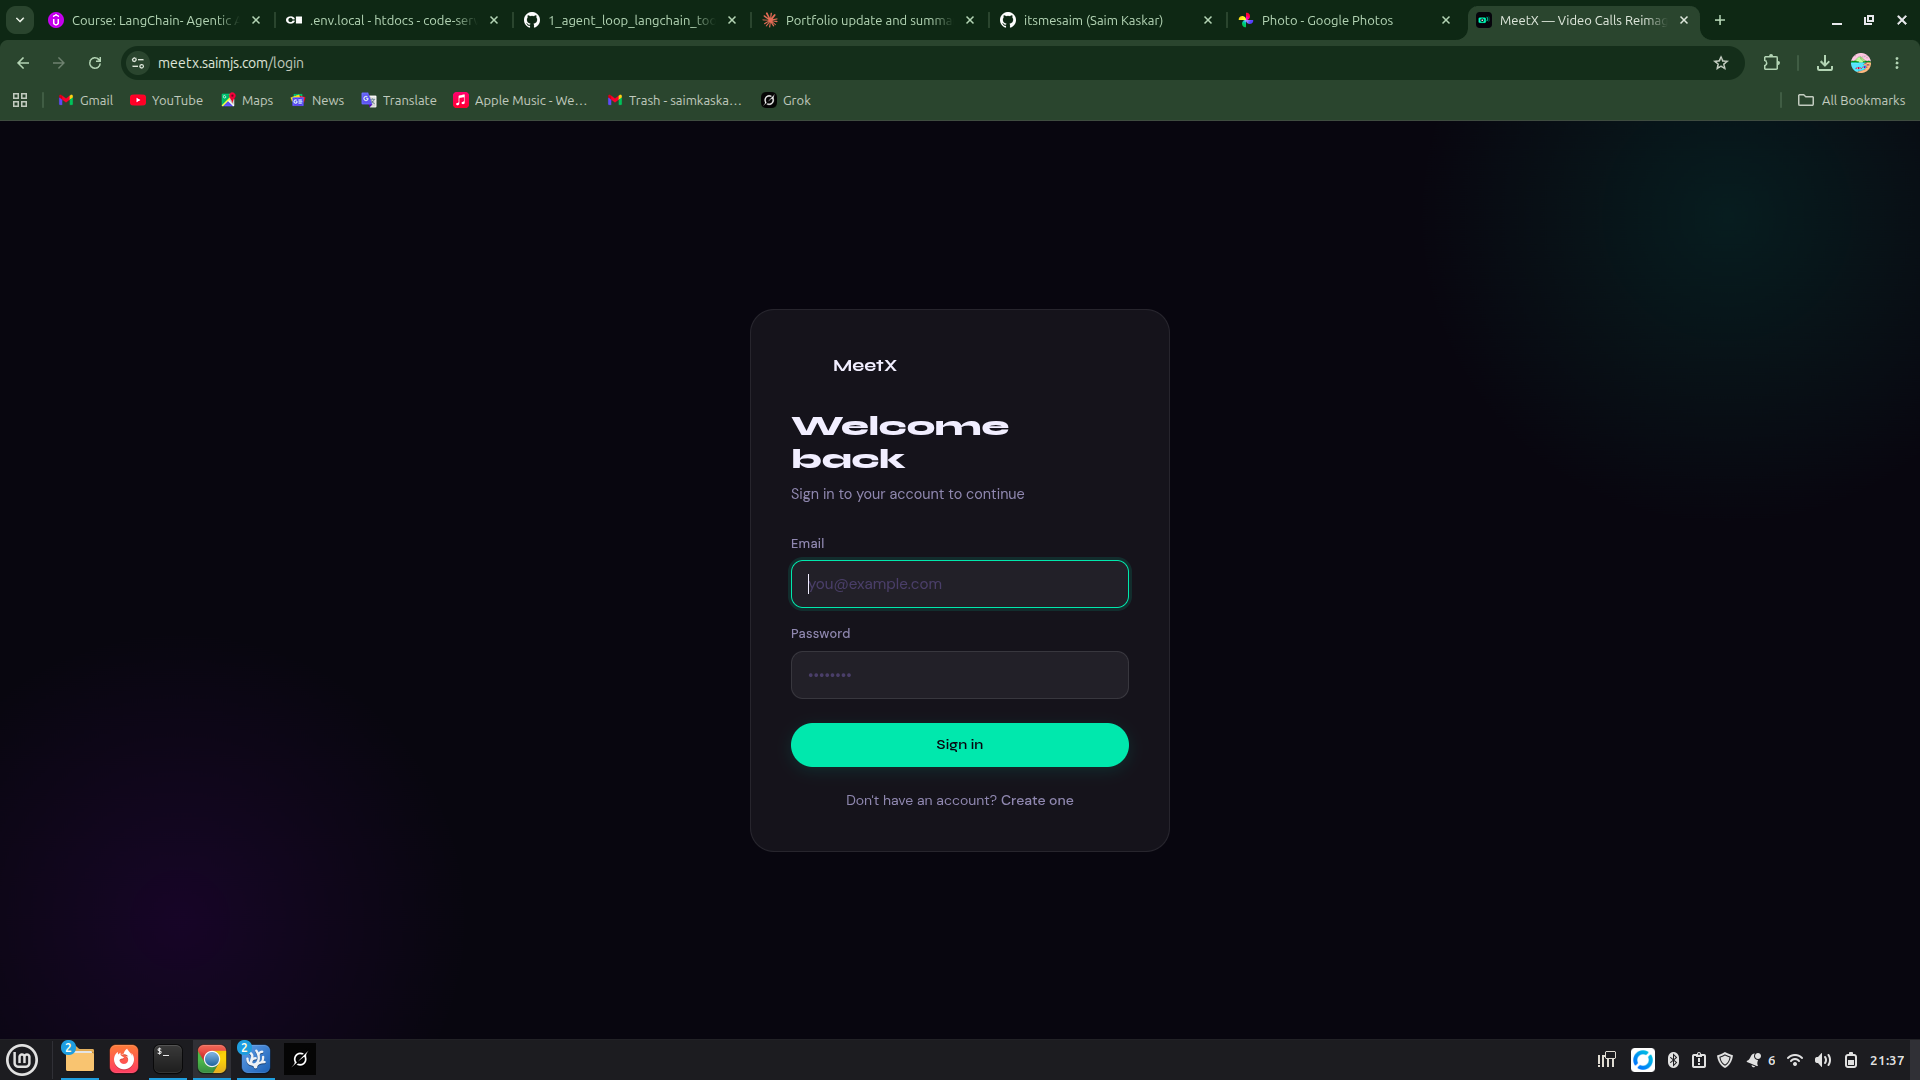
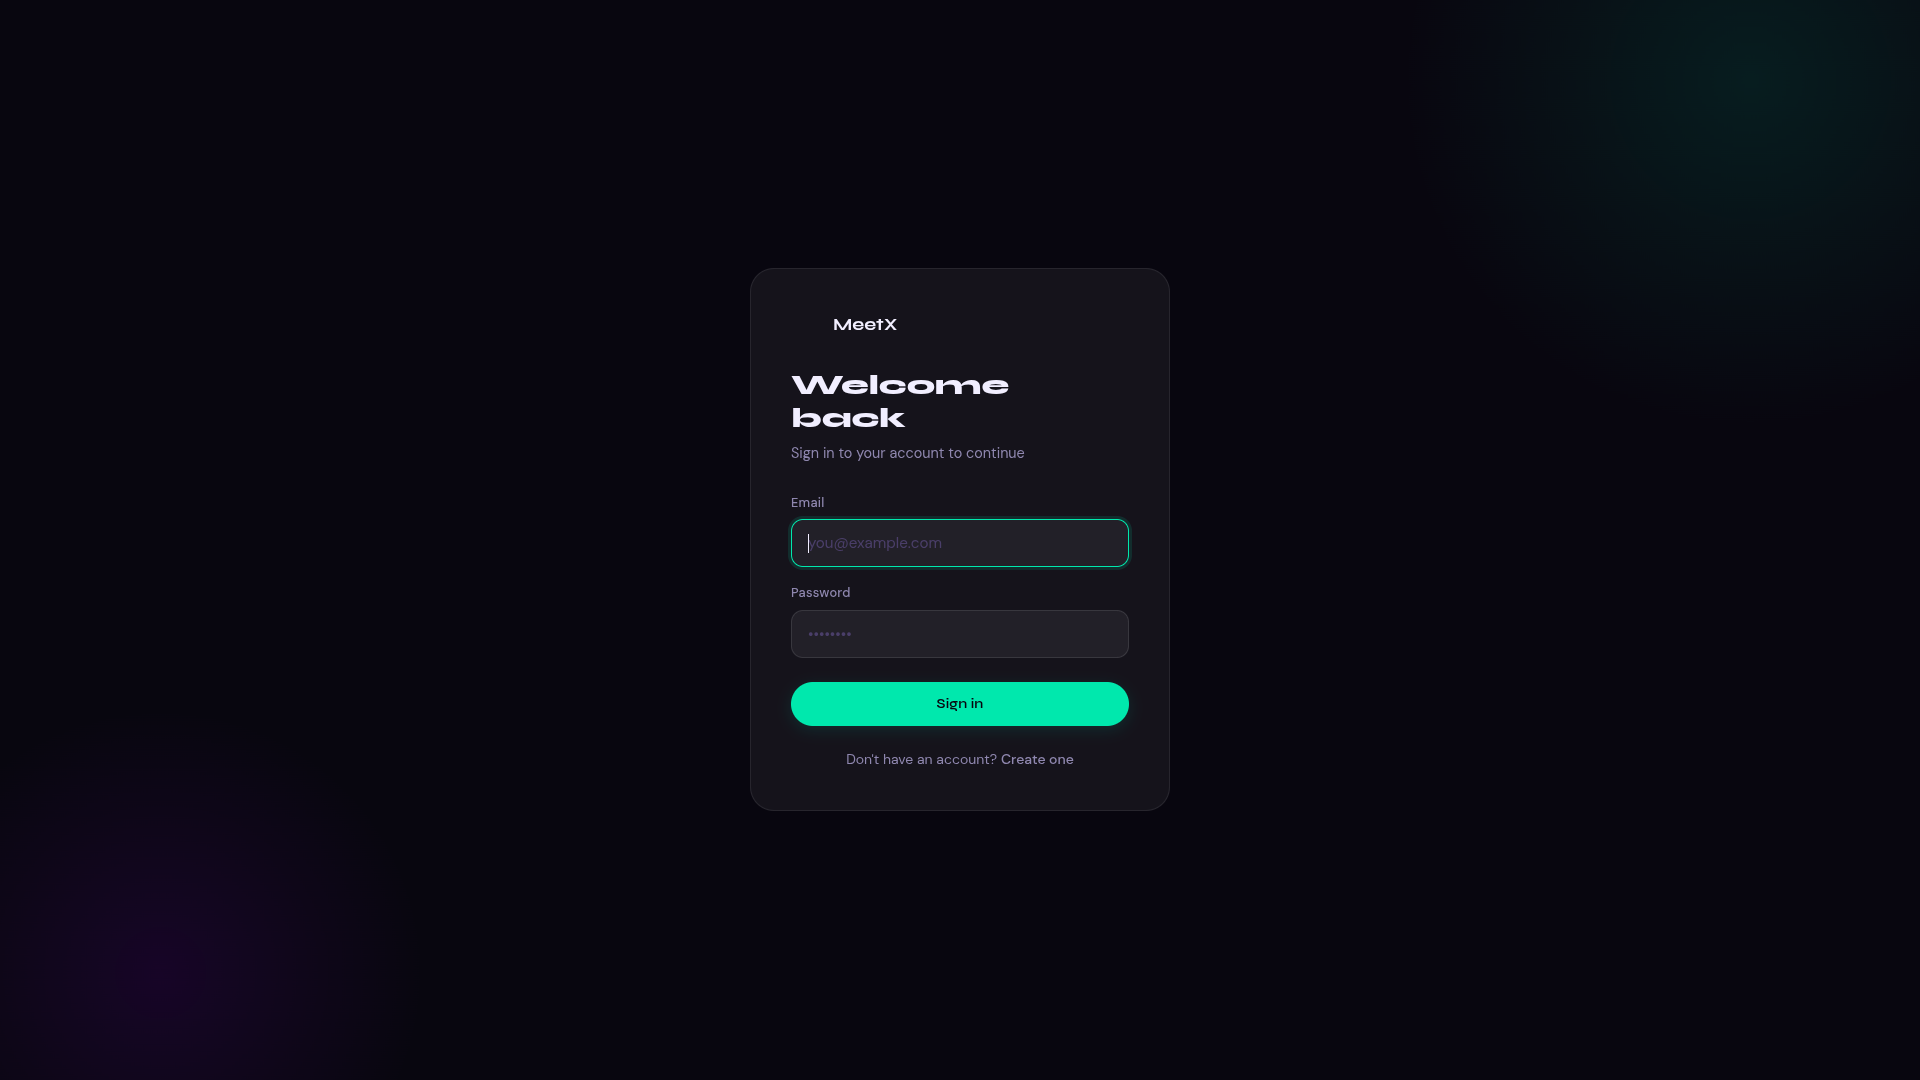
updated images

diff --git a/src/data/projects.js b/src/data/projects.js
@@ -10,6 +10,7 @@ export const projects = [
       "/projects/meetx-2.png",
       "/projects/meetx-3.png",
       "/projects/meetx-4.png",
+      "/projects/meetx-5.png",
     ],
     problem:
       "Most open-source video conferencing tools feel either basic or bloated. I wanted to push WebRTC beyond tutorials and build something with AI baked in — not bolted on as an afterthought.",
@@ -40,7 +41,8 @@ export const projects = [
     tagline: "MSc Dissertation · ML Network Security",
     description:
       "Simulated a smart city 6G network and trained ML models to detect cyber threats in real-time, with a human-in-the-loop review dashboard.",
-    images: ["/projects/6g-firewall-1.png", "/projects/6g-firewall-2.png"],
+    images: ["/projects/6gfirewall-1.png", "/projects/6gfirewall-2.png"],
+
     problem:
       "6G network security is largely uncharted — there are no production playbooks yet. I needed to model real attack vectors and build defences before the infrastructure even exists.",
     whatIBuilt:
@@ -119,18 +121,35 @@ export const projects = [
   {
     id: "pong-mern",
     title: "PONG-MERN",
-    tagline: "Real-Time Multiplayer Game",
+    tagline: "Real-Time Multiplayer Pong",
     description:
-      "Cross-continent multiplayer Pong with AI opponent mode, dynamic ball physics, and mobile touch controls. Zero login required.",
-    images: ["/projects/pong-1.png"],
+      "Server-authoritative multiplayer Pong with optional accounts, persistent stats, power-up orbs, and reconnect grace handling. Deployed live at pong.saimjs.com.",
+    images: [
+      "/projects/pong-1.png",
+      "/projects/pong-2.png",
+      "/projects/pong-3.png",
+      "/projects/pong-4.png",
+      "/projects/pong-5.png",
+    ],
     problem:
-      "I wanted to deeply understand real-time state synchronization. Keeping two clients in sync across latency is one of those problems that sounds simple until you build it.",
+      "I wanted to properly understand server-authoritative game state — not just syncing two clients, but building a system where the server owns the physics, validates all input, and handles the messy real-world stuff like dropped connections mid-game.",
     whatIBuilt:
-      "A React frontend with a Node.js/Express backend and Socket.IO for real-time sync. Custom game loop with delta-time physics, shared room IDs for matchmaking, mobile touch controls, and an AI opponent mode for solo play.",
+      "A shared 60Hz server loop runs physics across all active rooms simultaneously. Swept collision detection prevents fast balls tunneling through paddles. Friend matches pause on disconnect and give the player 10 seconds to reconnect and reclaim their seat via a stable clientId — if they don't return, a walkover is recorded in MongoDB. Power-up orbs spawn mid-rally and apply randomised effects: speed boost with a telegraph warning, curve spin, or opponent paddle shrink. Optional JWT accounts persist win/loss records, match history, and a global leaderboard. AI mode runs client-side and reports results to the same stats pipeline.",
     unique:
-      "Zero login required — you generate a room code, share it, and play. No accounts, no friction. Plays smoothly across continents thanks to client-side prediction.",
-    stack: ["React", "Node.js", "Socket.IO", "Express", "CSS3"],
+      "Two visual themes (neon arcade and phosphor green) toggle from the header. The canvas reads CSS variables live so the entire game — paddles, ball, scores, orbs — recolours instantly. On mobile the board rotates vertical with remapped touch input. Deployed with the API on a separate subdomain under pm2 and the static frontend served directly by Nginx.",
+    stack: [
+      "React",
+      "Node.js",
+      "Socket.IO",
+      "Express",
+      "MongoDB",
+      "JWT",
+      "Canvas API",
+      "Nginx",
+      "pm2",
+    ],
     github: "https://github.com/itsmesaim/PONG-MERN",
+    live: "https://pong.saimjs.com",
     status: "live",
     featured: false,
     tier: 2,
